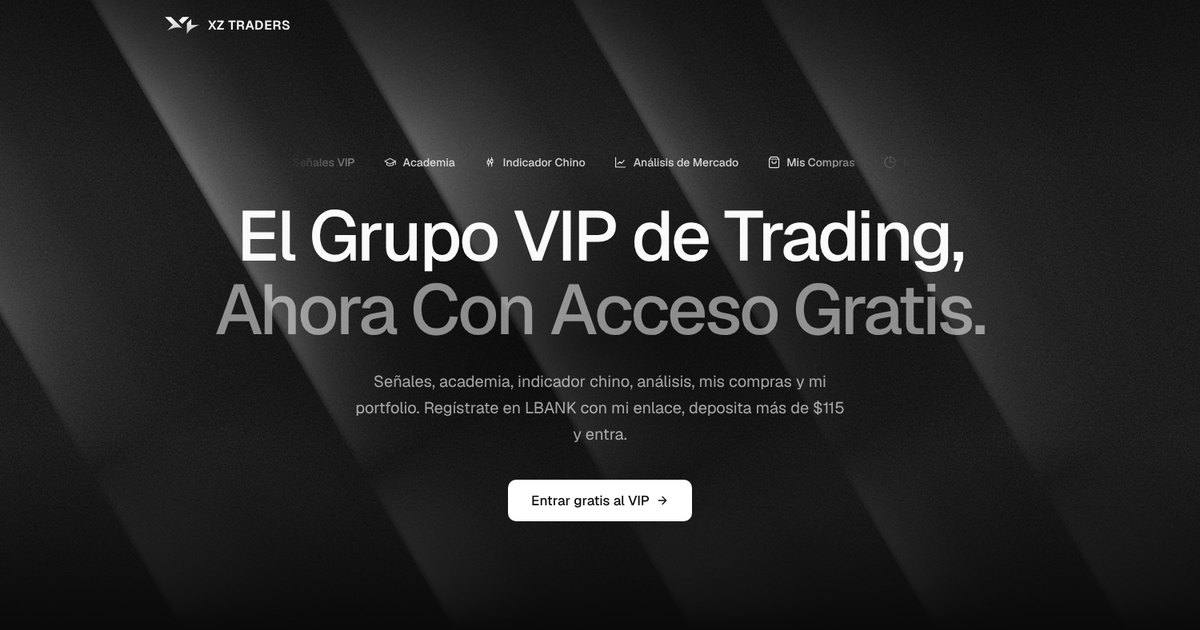
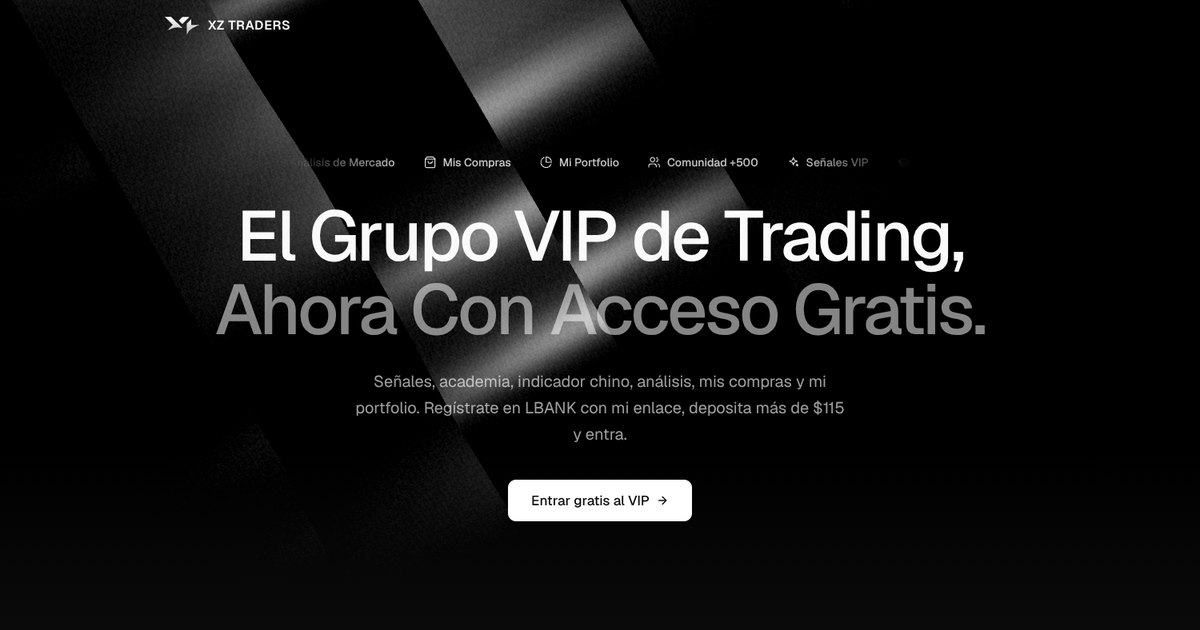
Use WebGL light beams in the hero, like trenchers.ai
Port the React Bits "Beams" background to plain three.js (r180 from
jsDelivr) with the same settings trenchers.ai uses: 20 noise-displaced
strips under a directional light, rotated 30 degrees, with grain.

It only animates while the hero is on screen, renders a single frame
for prefers-reduced-motion, and the CSS beams stay as the fallback
when WebGL is unavailable. Regenerate the social image.

Claude-Session: https://claude.ai/code/session_01QuxEd8b3DRymqb3iL2U1RG

diff --git a/assets/js/beams.js b/assets/js/beams.js
@@ -1,0 +1,294 @@
+/* ==========================================================================
+   Fondo animado del hero: haces de luz en 3D.
+   Versión sin React del componente "Beams" de React Bits (reactbits.dev),
+   con los mismos parámetros que usa trenchers.ai.
+   ========================================================================== */
+
+import * as THREE from 'https://cdn.jsdelivr.net/npm/three@0.180.0/build/three.module.min.js';
+
+const CONFIG = {
+  beamWidth: 3,
+  beamHeight: 30,
+  beamNumber: 20,
+  lightColor: '#ffffff',
+  beamColor: '#000000',
+  speed: 3,
+  noiseIntensity: 1.75,
+  scale: 0.2,
+  rotation: 30,
+};
+
+const NOISE_GLSL = /* glsl */ `
+float random (in vec2 st) {
+  return fract(sin(dot(st.xy, vec2(12.9898, 78.233))) * 43758.5453123);
+}
+float noise (in vec2 st) {
+  vec2 i = floor(st);
+  vec2 f = fract(st);
+  float a = random(i);
+  float b = random(i + vec2(1.0, 0.0));
+  float c = random(i + vec2(0.0, 1.0));
+  float d = random(i + vec2(1.0, 1.0));
+  vec2 u = f * f * (3.0 - 2.0 * f);
+  return mix(a, b, u.x) + (c - a) * u.y * (1.0 - u.x) + (d - b) * u.x * u.y;
+}
+vec4 permute(vec4 x) { return mod(((x * 34.0) + 1.0) * x, 289.0); }
+vec4 taylorInvSqrt(vec4 r) { return 1.79284291400159 - 0.85373472095314 * r; }
+vec3 fade(vec3 t) { return t * t * t * (t * (t * 6.0 - 15.0) + 10.0); }
+float cnoise(vec3 P) {
+  vec3 Pi0 = floor(P);
+  vec3 Pi1 = Pi0 + vec3(1.0);
+  Pi0 = mod(Pi0, 289.0);
+  Pi1 = mod(Pi1, 289.0);
+  vec3 Pf0 = fract(P);
+  vec3 Pf1 = Pf0 - vec3(1.0);
+  vec4 ix = vec4(Pi0.x, Pi1.x, Pi0.x, Pi1.x);
+  vec4 iy = vec4(Pi0.yy, Pi1.yy);
+  vec4 iz0 = Pi0.zzzz;
+  vec4 iz1 = Pi1.zzzz;
+  vec4 ixy = permute(permute(ix) + iy);
+  vec4 ixy0 = permute(ixy + iz0);
+  vec4 ixy1 = permute(ixy + iz1);
+  vec4 gx0 = ixy0 / 7.0;
+  vec4 gy0 = fract(floor(gx0) / 7.0) - 0.5;
+  gx0 = fract(gx0);
+  vec4 gz0 = vec4(0.5) - abs(gx0) - abs(gy0);
+  vec4 sz0 = step(gz0, vec4(0.0));
+  gx0 -= sz0 * (step(0.0, gx0) - 0.5);
+  gy0 -= sz0 * (step(0.0, gy0) - 0.5);
+  vec4 gx1 = ixy1 / 7.0;
+  vec4 gy1 = fract(floor(gx1) / 7.0) - 0.5;
+  gx1 = fract(gx1);
+  vec4 gz1 = vec4(0.5) - abs(gx1) - abs(gy1);
+  vec4 sz1 = step(gz1, vec4(0.0));
+  gx1 -= sz1 * (step(0.0, gx1) - 0.5);
+  gy1 -= sz1 * (step(0.0, gy1) - 0.5);
+  vec3 g000 = vec3(gx0.x, gy0.x, gz0.x);
+  vec3 g100 = vec3(gx0.y, gy0.y, gz0.y);
+  vec3 g010 = vec3(gx0.z, gy0.z, gz0.z);
+  vec3 g110 = vec3(gx0.w, gy0.w, gz0.w);
+  vec3 g001 = vec3(gx1.x, gy1.x, gz1.x);
+  vec3 g101 = vec3(gx1.y, gy1.y, gz1.y);
+  vec3 g011 = vec3(gx1.z, gy1.z, gz1.z);
+  vec3 g111 = vec3(gx1.w, gy1.w, gz1.w);
+  vec4 norm0 = taylorInvSqrt(vec4(dot(g000, g000), dot(g010, g010), dot(g100, g100), dot(g110, g110)));
+  g000 *= norm0.x;
+  g010 *= norm0.y;
+  g100 *= norm0.z;
+  g110 *= norm0.w;
+  vec4 norm1 = taylorInvSqrt(vec4(dot(g001, g001), dot(g011, g011), dot(g101, g101), dot(g111, g111)));
+  g001 *= norm1.x;
+  g011 *= norm1.y;
+  g101 *= norm1.z;
+  g111 *= norm1.w;
+  float n000 = dot(g000, Pf0);
+  float n100 = dot(g100, vec3(Pf1.x, Pf0.yz));
+  float n010 = dot(g010, vec3(Pf0.x, Pf1.y, Pf0.z));
+  float n110 = dot(g110, vec3(Pf1.xy, Pf0.z));
+  float n001 = dot(g001, vec3(Pf0.xy, Pf1.z));
+  float n101 = dot(g101, vec3(Pf1.x, Pf0.y, Pf1.z));
+  float n011 = dot(g011, vec3(Pf0.x, Pf1.yz));
+  float n111 = dot(g111, Pf1);
+  vec3 fade_xyz = fade(Pf0);
+  vec4 n_z = mix(vec4(n000, n100, n010, n110), vec4(n001, n101, n011, n111), fade_xyz.z);
+  vec2 n_yz = mix(n_z.xy, n_z.zw, fade_xyz.y);
+  float n_xyz = mix(n_yz.x, n_yz.y, fade_xyz.x);
+  return 2.2 * n_xyz;
+}
+`;
+
+// Material físico de three.js con código propio inyectado en sus shaders.
+function extendMaterial(BaseMaterial, cfg) {
+  const physical = THREE.ShaderLib.physical;
+  const uniforms = THREE.UniformsUtils.clone(physical.uniforms);
+  const defaults = new BaseMaterial(cfg.material || {});
+
+  if (defaults.color) uniforms.diffuse.value = defaults.color;
+  if ('roughness' in defaults) uniforms.roughness.value = defaults.roughness;
+  if ('metalness' in defaults) uniforms.metalness.value = defaults.metalness;
+  if ('envMap' in defaults) uniforms.envMap.value = defaults.envMap;
+  if ('envMapIntensity' in defaults) uniforms.envMapIntensity.value = defaults.envMapIntensity;
+
+  Object.entries(cfg.uniforms ?? {}).forEach(([key, u]) => {
+    uniforms[key] = u !== null && typeof u === 'object' && 'value' in u ? u : { value: u };
+  });
+
+  let vertexShader = `${cfg.header}\n${cfg.vertexHeader ?? ''}\n${physical.vertexShader}`;
+  let fragmentShader = `${cfg.header}\n${cfg.fragmentHeader ?? ''}\n${physical.fragmentShader}`;
+  for (const [inc, code] of Object.entries(cfg.vertex ?? {})) vertexShader = vertexShader.replace(inc, `${inc}\n${code}`);
+  for (const [inc, code] of Object.entries(cfg.fragment ?? {})) fragmentShader = fragmentShader.replace(inc, `${inc}\n${code}`);
+
+  return new THREE.ShaderMaterial({
+    defines: { ...(physical.defines ?? {}) },
+    uniforms,
+    vertexShader,
+    fragmentShader,
+    lights: true,
+    fog: !!cfg.material?.fog,
+  });
+}
+
+// Tiras verticales pegadas, cada una con un desfase aleatorio de ruido.
+function createStackedPlanes(count, width, height, spacing, segments) {
+  const geometry = new THREE.BufferGeometry();
+  const numVertices = count * (segments + 1) * 2;
+  const positions = new Float32Array(numVertices * 3);
+  const uvs = new Float32Array(numVertices * 2);
+  const indices = new Uint32Array(count * segments * 2 * 3);
+  const totalWidth = count * width + (count - 1) * spacing;
+  let v = 0;
+  let ii = 0;
+  let uv = 0;
+
+  for (let i = 0; i < count; i++) {
+    const x = -totalWidth / 2 + i * (width + spacing);
+    const uvX = Math.random() * 300;
+    const uvY = Math.random() * 300;
+    for (let j = 0; j <= segments; j++) {
+      const y = height * (j / segments - 0.5);
+      positions.set([x, y, 0, x + width, y, 0], v * 3);
+      const t = j / segments;
+      uvs.set([uvX, t + uvY, uvX + 1, t + uvY], uv);
+      if (j < segments) {
+        indices.set([v, v + 1, v + 2, v + 2, v + 1, v + 3], ii);
+        ii += 6;
+      }
+      v += 2;
+      uv += 4;
+    }
+  }
+
+  geometry.setAttribute('position', new THREE.BufferAttribute(positions, 3));
+  geometry.setAttribute('uv', new THREE.BufferAttribute(uvs, 2));
+  geometry.setIndex(new THREE.BufferAttribute(indices, 1));
+  geometry.computeVertexNormals();
+  return geometry;
+}
+
+function init(canvas) {
+  const renderer = new THREE.WebGLRenderer({ canvas, antialias: true, alpha: true, powerPreference: 'high-performance' });
+  renderer.setPixelRatio(Math.min(window.devicePixelRatio || 1, 2));
+  renderer.outputColorSpace = THREE.SRGBColorSpace;
+  renderer.toneMapping = THREE.ACESFilmicToneMapping;
+  renderer.setClearColor(0x000000, 0);
+
+  const scene = new THREE.Scene();
+  const camera = new THREE.PerspectiveCamera(30, 1, 0.1, 1000);
+  camera.position.set(0, 0, 20);
+
+  const material = extendMaterial(THREE.MeshStandardMaterial, {
+    header: `
+  varying vec3 vEye;
+  varying float vNoise;
+  varying vec2 vUv;
+  varying vec3 vPosition;
+  uniform float time;
+  uniform float uSpeed;
+  uniform float uNoiseIntensity;
+  uniform float uScale;
+  ${NOISE_GLSL}`,
+    vertexHeader: `
+  float getPos(vec3 pos) {
+    vec3 noisePos = vec3(pos.x * 0., pos.y - uv.y, pos.z + time * uSpeed * 3.) * uScale;
+    return cnoise(noisePos);
+  }
+  vec3 getCurrentPos(vec3 pos) {
+    vec3 newpos = pos;
+    newpos.z += getPos(pos);
+    return newpos;
+  }
+  vec3 getNormal(vec3 pos) {
+    vec3 curpos = getCurrentPos(pos);
+    vec3 nextposX = getCurrentPos(pos + vec3(0.01, 0.0, 0.0));
+    vec3 nextposZ = getCurrentPos(pos + vec3(0.0, -0.01, 0.0));
+    vec3 tangentX = normalize(nextposX - curpos);
+    vec3 tangentZ = normalize(nextposZ - curpos);
+    return normalize(cross(tangentZ, tangentX));
+  }`,
+    vertex: {
+      '#include <begin_vertex>': 'transformed.z += getPos(transformed.xyz);',
+      '#include <beginnormal_vertex>': 'objectNormal = getNormal(position.xyz);',
+    },
+    fragment: {
+      '#include <dithering_fragment>': `
+    float randomNoise = noise(gl_FragCoord.xy);
+    gl_FragColor.rgb -= randomNoise / 15. * uNoiseIntensity;`,
+    },
+    material: { fog: true },
+    uniforms: {
+      diffuse: new THREE.Color(CONFIG.beamColor),
+      time: { value: 0 },
+      roughness: 0.3,
+      metalness: 0.3,
+      uSpeed: { value: CONFIG.speed },
+      envMapIntensity: 10,
+      uNoiseIntensity: CONFIG.noiseIntensity,
+      uScale: CONFIG.scale,
+    },
+  });
+
+  const group = new THREE.Group();
+  group.rotation.z = THREE.MathUtils.degToRad(CONFIG.rotation);
+  scene.add(group);
+
+  const geometry = createStackedPlanes(CONFIG.beamNumber, CONFIG.beamWidth, CONFIG.beamHeight, 0, 100);
+  group.add(new THREE.Mesh(geometry, material));
+
+  const light = new THREE.DirectionalLight(CONFIG.lightColor, 1);
+  light.position.set(0, 3, 10);
+  group.add(light);
+  scene.add(new THREE.AmbientLight(0xffffff, 1));
+
+  const resize = () => {
+    const { clientWidth: w, clientHeight: h } = canvas.parentElement;
+    if (!w || !h) return;
+    renderer.setSize(w, h, false);
+    camera.aspect = w / h;
+    camera.updateProjectionMatrix();
+  };
+  resize();
+  new ResizeObserver(resize).observe(canvas.parentElement);
+
+  const reduceMotion = window.matchMedia('(prefers-reduced-motion: reduce)').matches;
+  const clock = new THREE.Clock();
+  let visible = true;
+  let running = false;
+
+  const frame = () => {
+    if (!visible) {
+      running = false;
+      return;
+    }
+    material.uniforms.time.value += 0.1 * Math.min(clock.getDelta(), 0.1);
+    renderer.render(scene, camera);
+    requestAnimationFrame(frame);
+  };
+
+  const start = () => {
+    if (running || reduceMotion) return;
+    running = true;
+    clock.getDelta();
+    requestAnimationFrame(frame);
+  };
+
+  // Primer fotograma y aviso para ocultar el fondo CSS de respaldo.
+  renderer.render(scene, camera);
+  document.documentElement.classList.add('has-beams');
+
+  // Solo animar mientras el hero está en pantalla.
+  new IntersectionObserver(([entry]) => {
+    visible = entry.isIntersecting;
+    if (visible) start();
+  }).observe(canvas.parentElement);
+  start();
+}
+
+const canvas = document.getElementById('beams');
+if (canvas) {
+  try {
+    init(canvas);
+  } catch (err) {
+    // Sin WebGL: se queda el fondo CSS.
+    console.warn('Beams: WebGL no disponible', err);
+  }
+}

diff --git a/assets/css/styles.css b/assets/css/styles.css
@@ -379,7 +379,31 @@ svg {
   pointer-events: none;
 }
 
-/* Haces de luz diagonales */
+/* Haces de luz en 3D (assets/js/beams.js) */
+.hero__canvas {
+  position: absolute;
+  inset: 0;
+  width: 100%;
+  height: 100%;
+  opacity: 0;
+  transition: opacity 1.2s var(--ease);
+}
+
+.has-beams .hero__canvas {
+  opacity: 1;
+}
+
+/* Respaldo en CSS si no hay WebGL */
+.has-beams .beam,
+.has-beams .hero__grain {
+  display: none;
+}
+
+.has-beams .hero__vignette {
+  background: linear-gradient(180deg, transparent 72%, var(--bg) 100%);
+}
+
+/* Haces de luz diagonales (respaldo) */
 .beam {
   position: absolute;
   top: -40%;

diff --git a/index.html b/index.html
@@ -38,6 +38,7 @@
     <link rel="stylesheet" href="assets/css/styles.css" />
     <script>document.documentElement.classList.replace('no-js', 'js');</script>
     <script src="assets/js/main.js" defer></script>
+    <script type="module" src="assets/js/beams.js"></script>
   </head>
 
   <body>
@@ -89,6 +90,7 @@
       <!-- HERO -->
       <section class="hero">
         <div class="hero__bg" aria-hidden="true">
+          <canvas class="hero__canvas" id="beams"></canvas>
           <span class="beam beam--1"></span>
           <span class="beam beam--2"></span>
           <span class="beam beam--3"></span>

diff --git a/README.md b/README.md
@@ -8,6 +8,7 @@ Landing estática del grupo VIP de **XZ TRADERS**. HTML, CSS y JavaScript sin de
 index.html              Página principal
 assets/css/styles.css   Estilos (tokens de color y tipografía al inicio)
 assets/js/main.js       Enlaces y animaciones
+assets/js/beams.js      Fondo animado del hero (three.js; si no hay WebGL se usa el fondo CSS)
 assets/img/             Logo (logo.svg), favicons e imagen para redes (og-cover.jpg)
 ```
 
